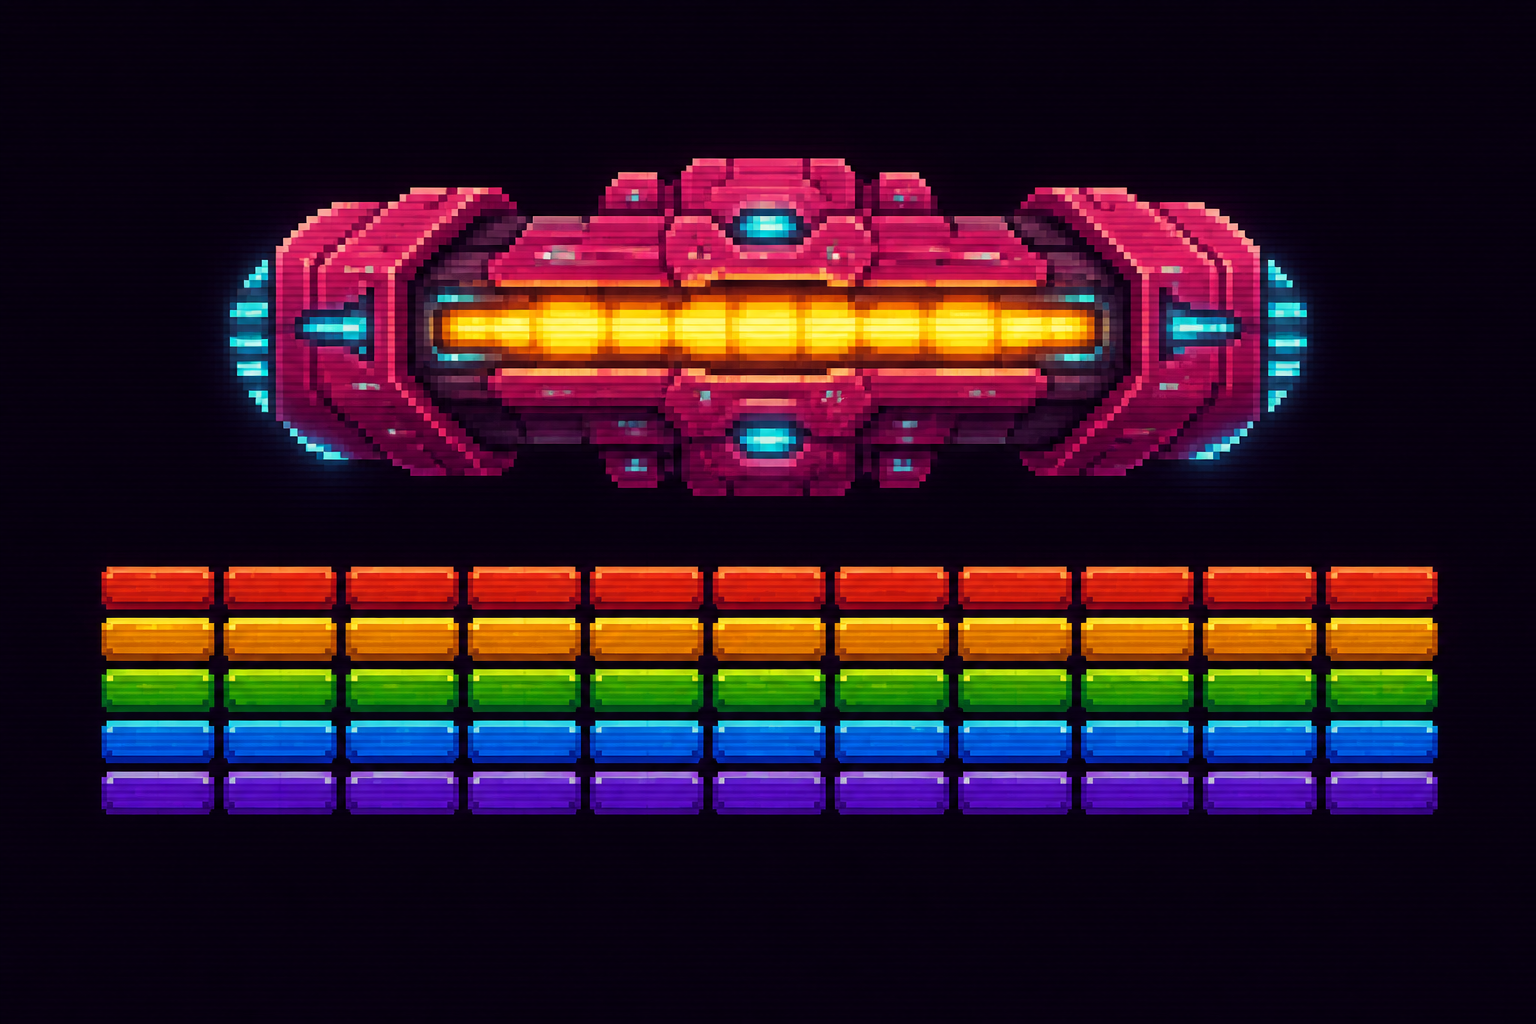
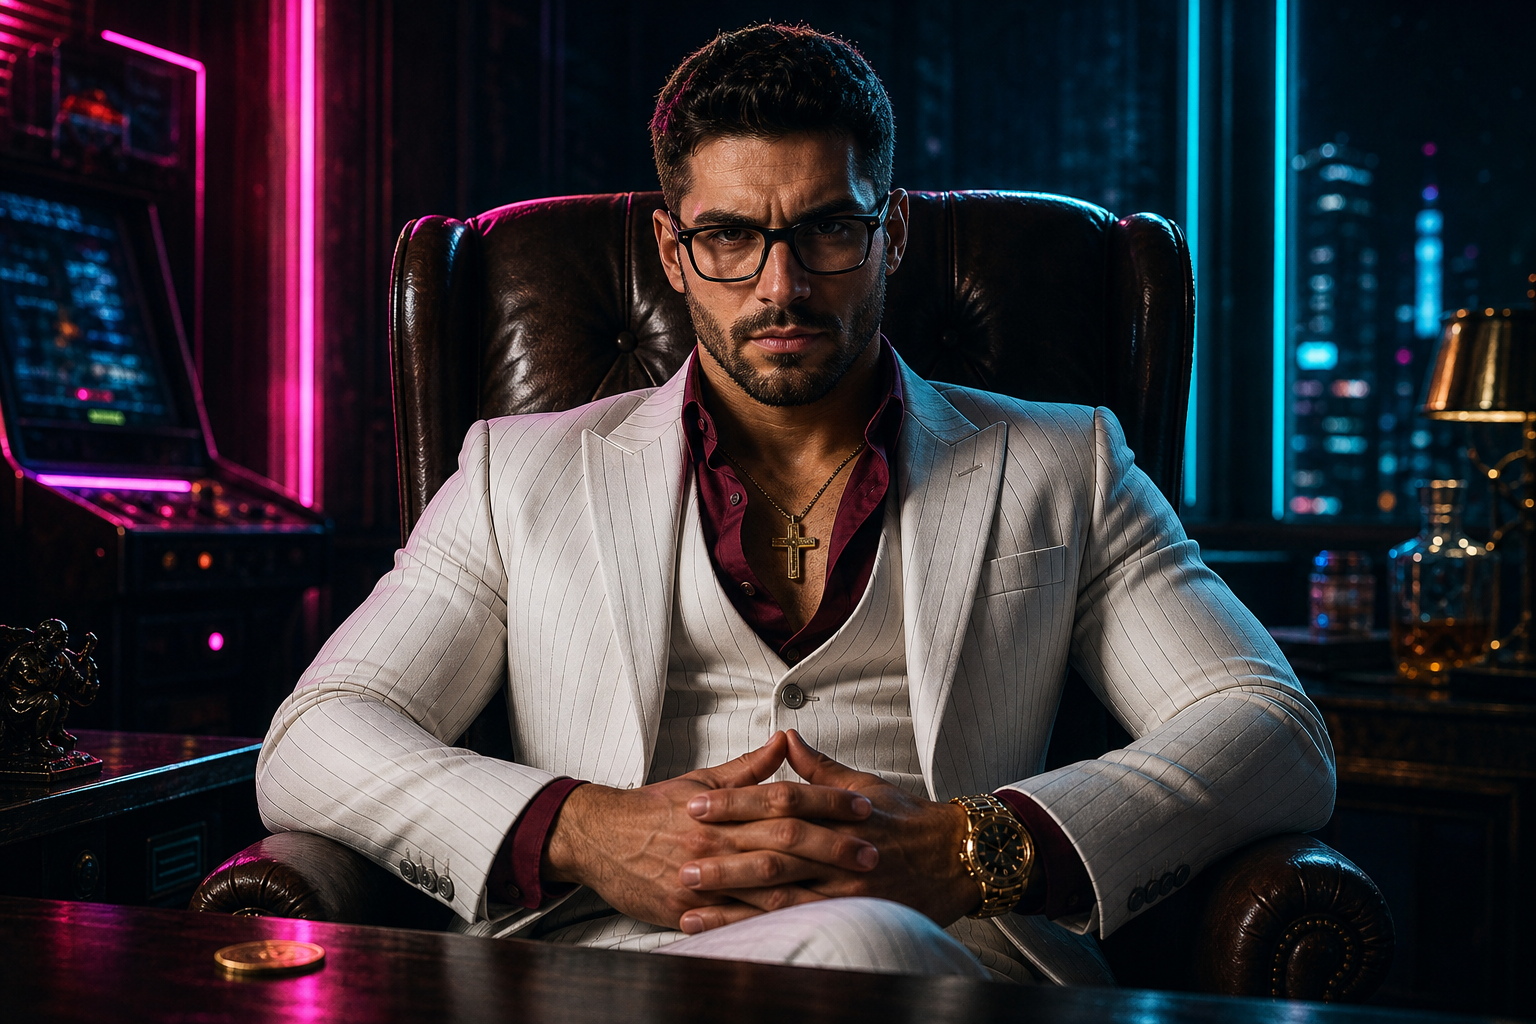
Regenerar retrato del jefe Arkanoid V3
Reemplaza el key art de nave por el kingpin de referencia y sube
el hitbox a 132x88 (3:2) para que se lea la cara en el playfield.

diff --git a/app/arkanoid/iterations/v3/scripts/smoke-v1.ts b/app/arkanoid/iterations/v3/scripts/smoke-v1.ts
@@ -5,6 +5,8 @@
 import assert from 'node:assert/strict';
 import {
   BALL_RADIUS,
+  BOSS_HEIGHT,
+  BOSS_WIDTH,
   INITIAL_LIVES,
   LEVEL_COUNT,
   SCORE_BOSS_BASE,
@@ -206,6 +208,8 @@ function testBossOnEveryLevel() {
     const world = createWorld(WORLD_WIDTH, WORLD_HEIGHT, i);
     assert.ok(world.boss, `level ${i} must have a boss`);
     assert.equal(world.boss.hitsLeft, bossHitsForLevel(i));
+    assert.equal(world.boss.w, BOSS_WIDTH);
+    assert.equal(world.boss.h, BOSS_HEIGHT);
     assert.equal(isLevelCleared(world.bricks, world.boss, i), false);
   }
 

diff --git a/app/arkanoid/iterations/v3/src/components/Playfield.tsx b/app/arkanoid/iterations/v3/src/components/Playfield.tsx
@@ -50,6 +50,8 @@ export function Playfield({ world, scale }: Props) {
             width: world.boss.w * scale,
             height: world.boss.h * scale,
             borderRadius: 4,
+            borderWidth: 2,
+            borderColor: play.bossCore,
           }}
           resizeMode="cover"
         />

diff --git a/app/arkanoid/iterations/v3/src/constants/game.ts b/app/arkanoid/iterations/v3/src/constants/game.ts
@@ -27,7 +27,7 @@ export const SCORE_BOSS_PER_LEVEL = 250;
 export const BOSS_HITS_BASE = 4;
 export const BOSS_HITS_PER_LEVEL = 2;
 export const BOSS_WIDTH = 132;
-export const BOSS_HEIGHT = 36;
+export const BOSS_HEIGHT = 88;
 export const BOSS_SPEED_BASE = 70;
 export const BOSS_SPEED_PER_LEVEL = 18;
 

diff --git a/app/arkanoid/iterations/v3/README.md b/app/arkanoid/iterations/v3/README.md
@@ -7,7 +7,7 @@ Expo SDK 52 · React Native · package `com.wika.arkanoid`
 - **Jefe en todos los niveles** (4 / 6 / 8 hits)
 - Hay que romper el muro **y** derrotar al jefe para avanzar
 - 3 vidas; LOSER `/lose` y WIN `/win` con arte de Design System
-- Sprite del jefe desde `assets/boss.png` (origen `design-system/inspiration/arkanoid/`)
+- Sprite del jefe: retrato kingpin `assets/boss.png` (origen `design-system/inspiration/arkanoid/`)
 
 ## Scripts
 

diff --git a/app/arkanoid/iterations/v3/generation-report.md b/app/arkanoid/iterations/v3/generation-report.md
@@ -19,6 +19,7 @@
 | Jefe en **todos** los niveles | Sí (HP 4/6/8) |
 | Clear = muro + jefe | Sí |
 | Arte jefe / WIN / LOSER | Sí (`assets/*.png` desde DS inspiration) |
+| Retrato kingpin del jefe | Sí (regenerado 2026-08-19; hitbox 132×88) |
 
 ## Stack
 Expo SDK 52 · RN 0.76.9 · `com.wika.arkanoid` · high score `arkanoid:v3:highScore`

diff --git a/app/arkanoid/audits/auditoria-release-v3.md b/app/arkanoid/audits/auditoria-release-v3.md
@@ -7,6 +7,7 @@
 - [x] Jefe en todos los niveles (4/6/8 hits)
 - [x] Clear = muro + jefe
 - [x] LOSER / WIN con arte DS
+- [x] Retrato kingpin en `assets/boss.png` (hitbox 132×88)
 - [x] High score `arkanoid:v3:highScore`
 
 ## Gates
